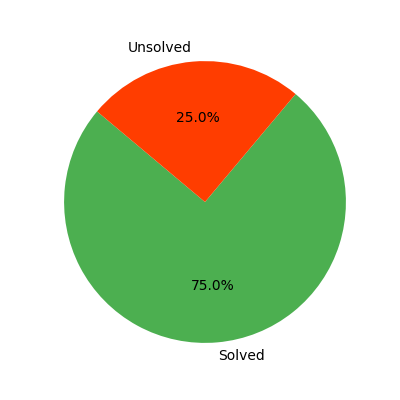
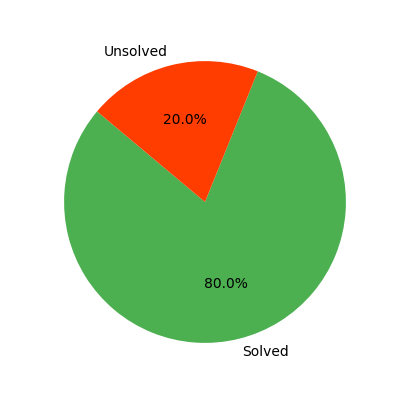
Updated README with latest progress

diff --git a/README.md b/README.md
@@ -1,16 +1,17 @@
 # LeetCode Progress Tracker 🚀
 
 ## 📊 Progress Overview
-- **Total Problems**: 4
-- **Total Solved**: 3
-- **Progress:** [███████████████-----] 3/4 solved
+- **Total Problems**: 5
+- **Total Solved**: 4
+- **Progress:** [████████████████----] 4/5 solved
 
 ![Progress Chart](progress_chart.png)
 
 ## 📌 Problem List
 | #  | Problem | Category | Difficulty | Time Taken | Attempts | Hints Used | Notes | Status |
 |----|---------|----------|------------|------------|----------|------------|-------|--------|
-| 1 | Valid Palindrome | Strings | Easy | 15 min | 2 | No | None | Solved |
-| 2 | Problem 1 | Arrays | Easy | 15 min | 1 | No | Used a dictionary to store seen numbers. | Unsolved |
-| 3 | Counting Bits: https://leetcode.com/problems/counting-bits/description/ | Bit Manipulation | Easy | 20 min | 1 | Yes | Used a helper function to count the number of 1 bits in a number. Use the operation n & (n - 1) to count the number of 1 bits in a number. | Solved |
-| 4 | Single Number | Bit Manipulation | Easy | 5 min | 1 | No | Used XOR to solve the problem. It permits us to find the unique number in the list. Why ? Because XOR of a number with itself is 0. So, if we XOR all the numbers in the list, we will be left with the unique number. | Solved |
+| 1 | Counting Bits: https://leetcode.com/problems/isomorphic-strings/description/ | HashMaps | Easy | 20 min | 2 | Yes | Used two dictionaries to map the characters in the two strings. If the mapping is not the same, return False. | Solved |
+| 2 | Valid Palindrome | Strings | Easy | 15 min | 2 | No | None | Solved |
+| 3 | Problem 1 | Arrays | Easy | 15 min | 1 | No | Used a dictionary to store seen numbers. | Unsolved |
+| 4 | Counting Bits: https://leetcode.com/problems/counting-bits/description/ | Bit Manipulation | Easy | 20 min | 1 | Yes | Used a helper function to count the number of 1 bits in a number. Use the operation n & (n - 1) to count the number of 1 bits in a number. | Solved |
+| 5 | Single Number | Bit Manipulation | Easy | 5 min | 1 | No | Used XOR to solve the problem. It permits us to find the unique number in the list. Why ? Because XOR of a number with itself is 0. So, if we XOR all the numbers in the list, we will be left with the unique number. | Solved |
